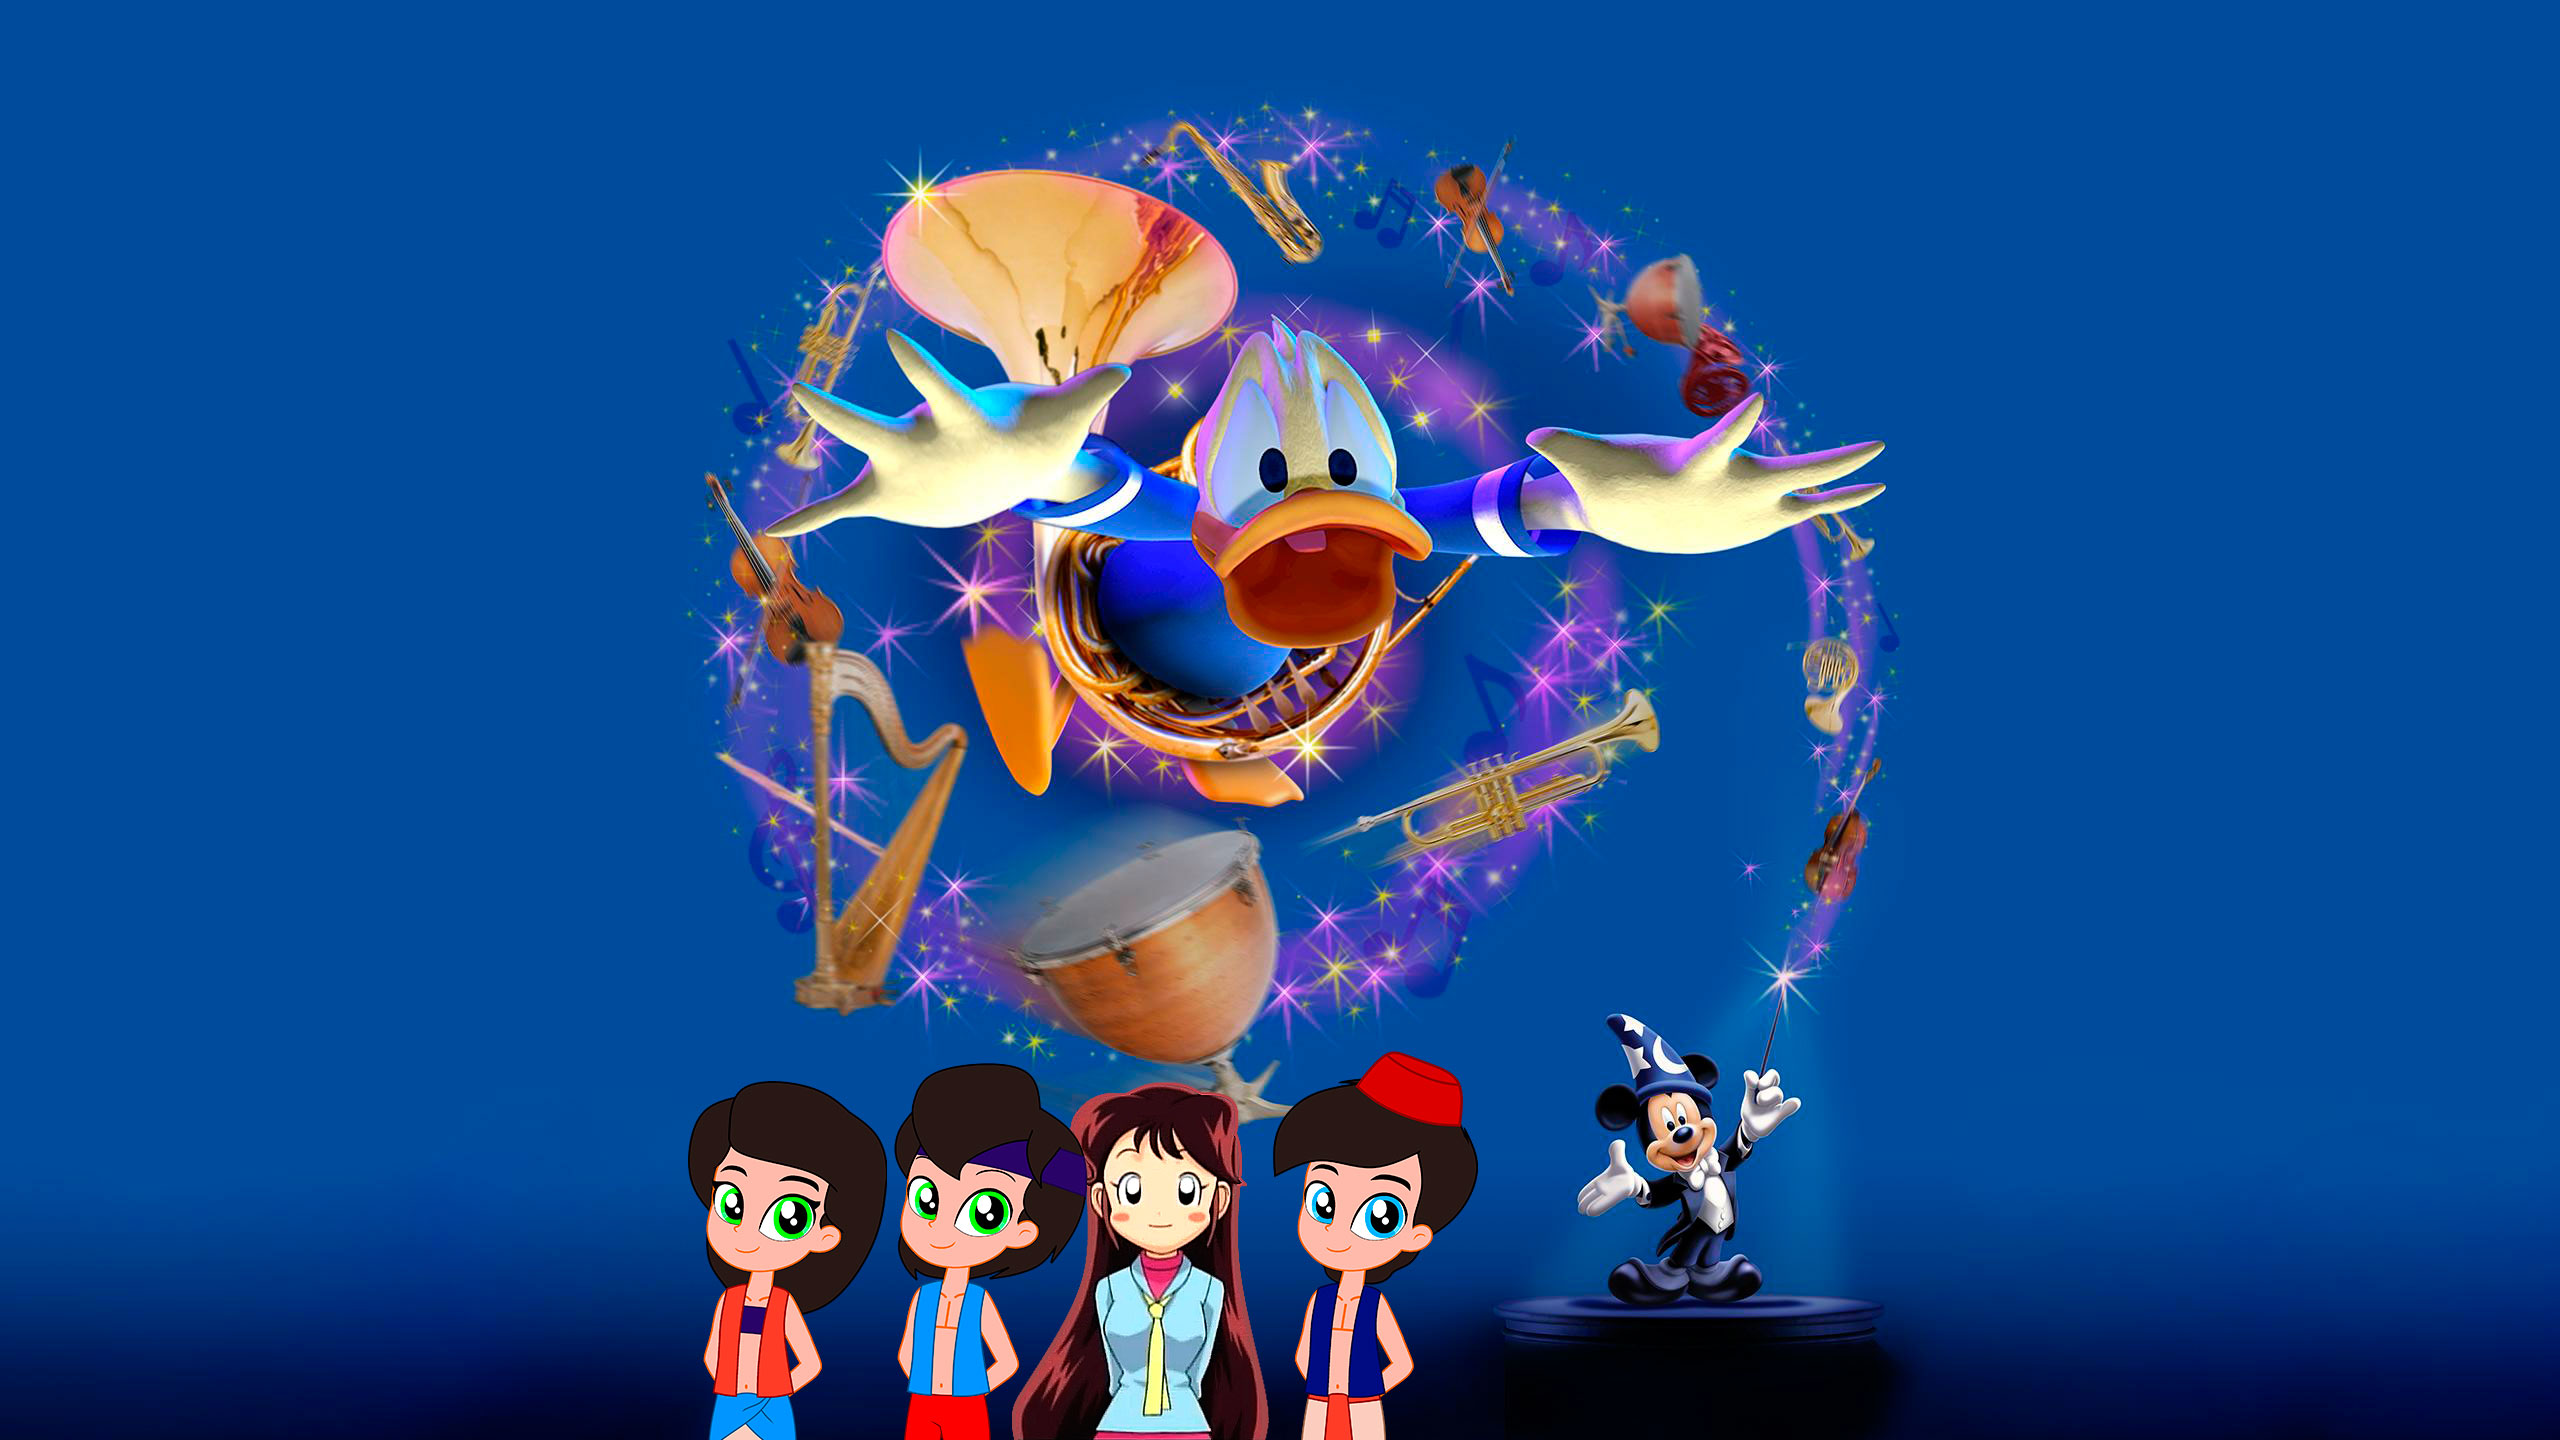
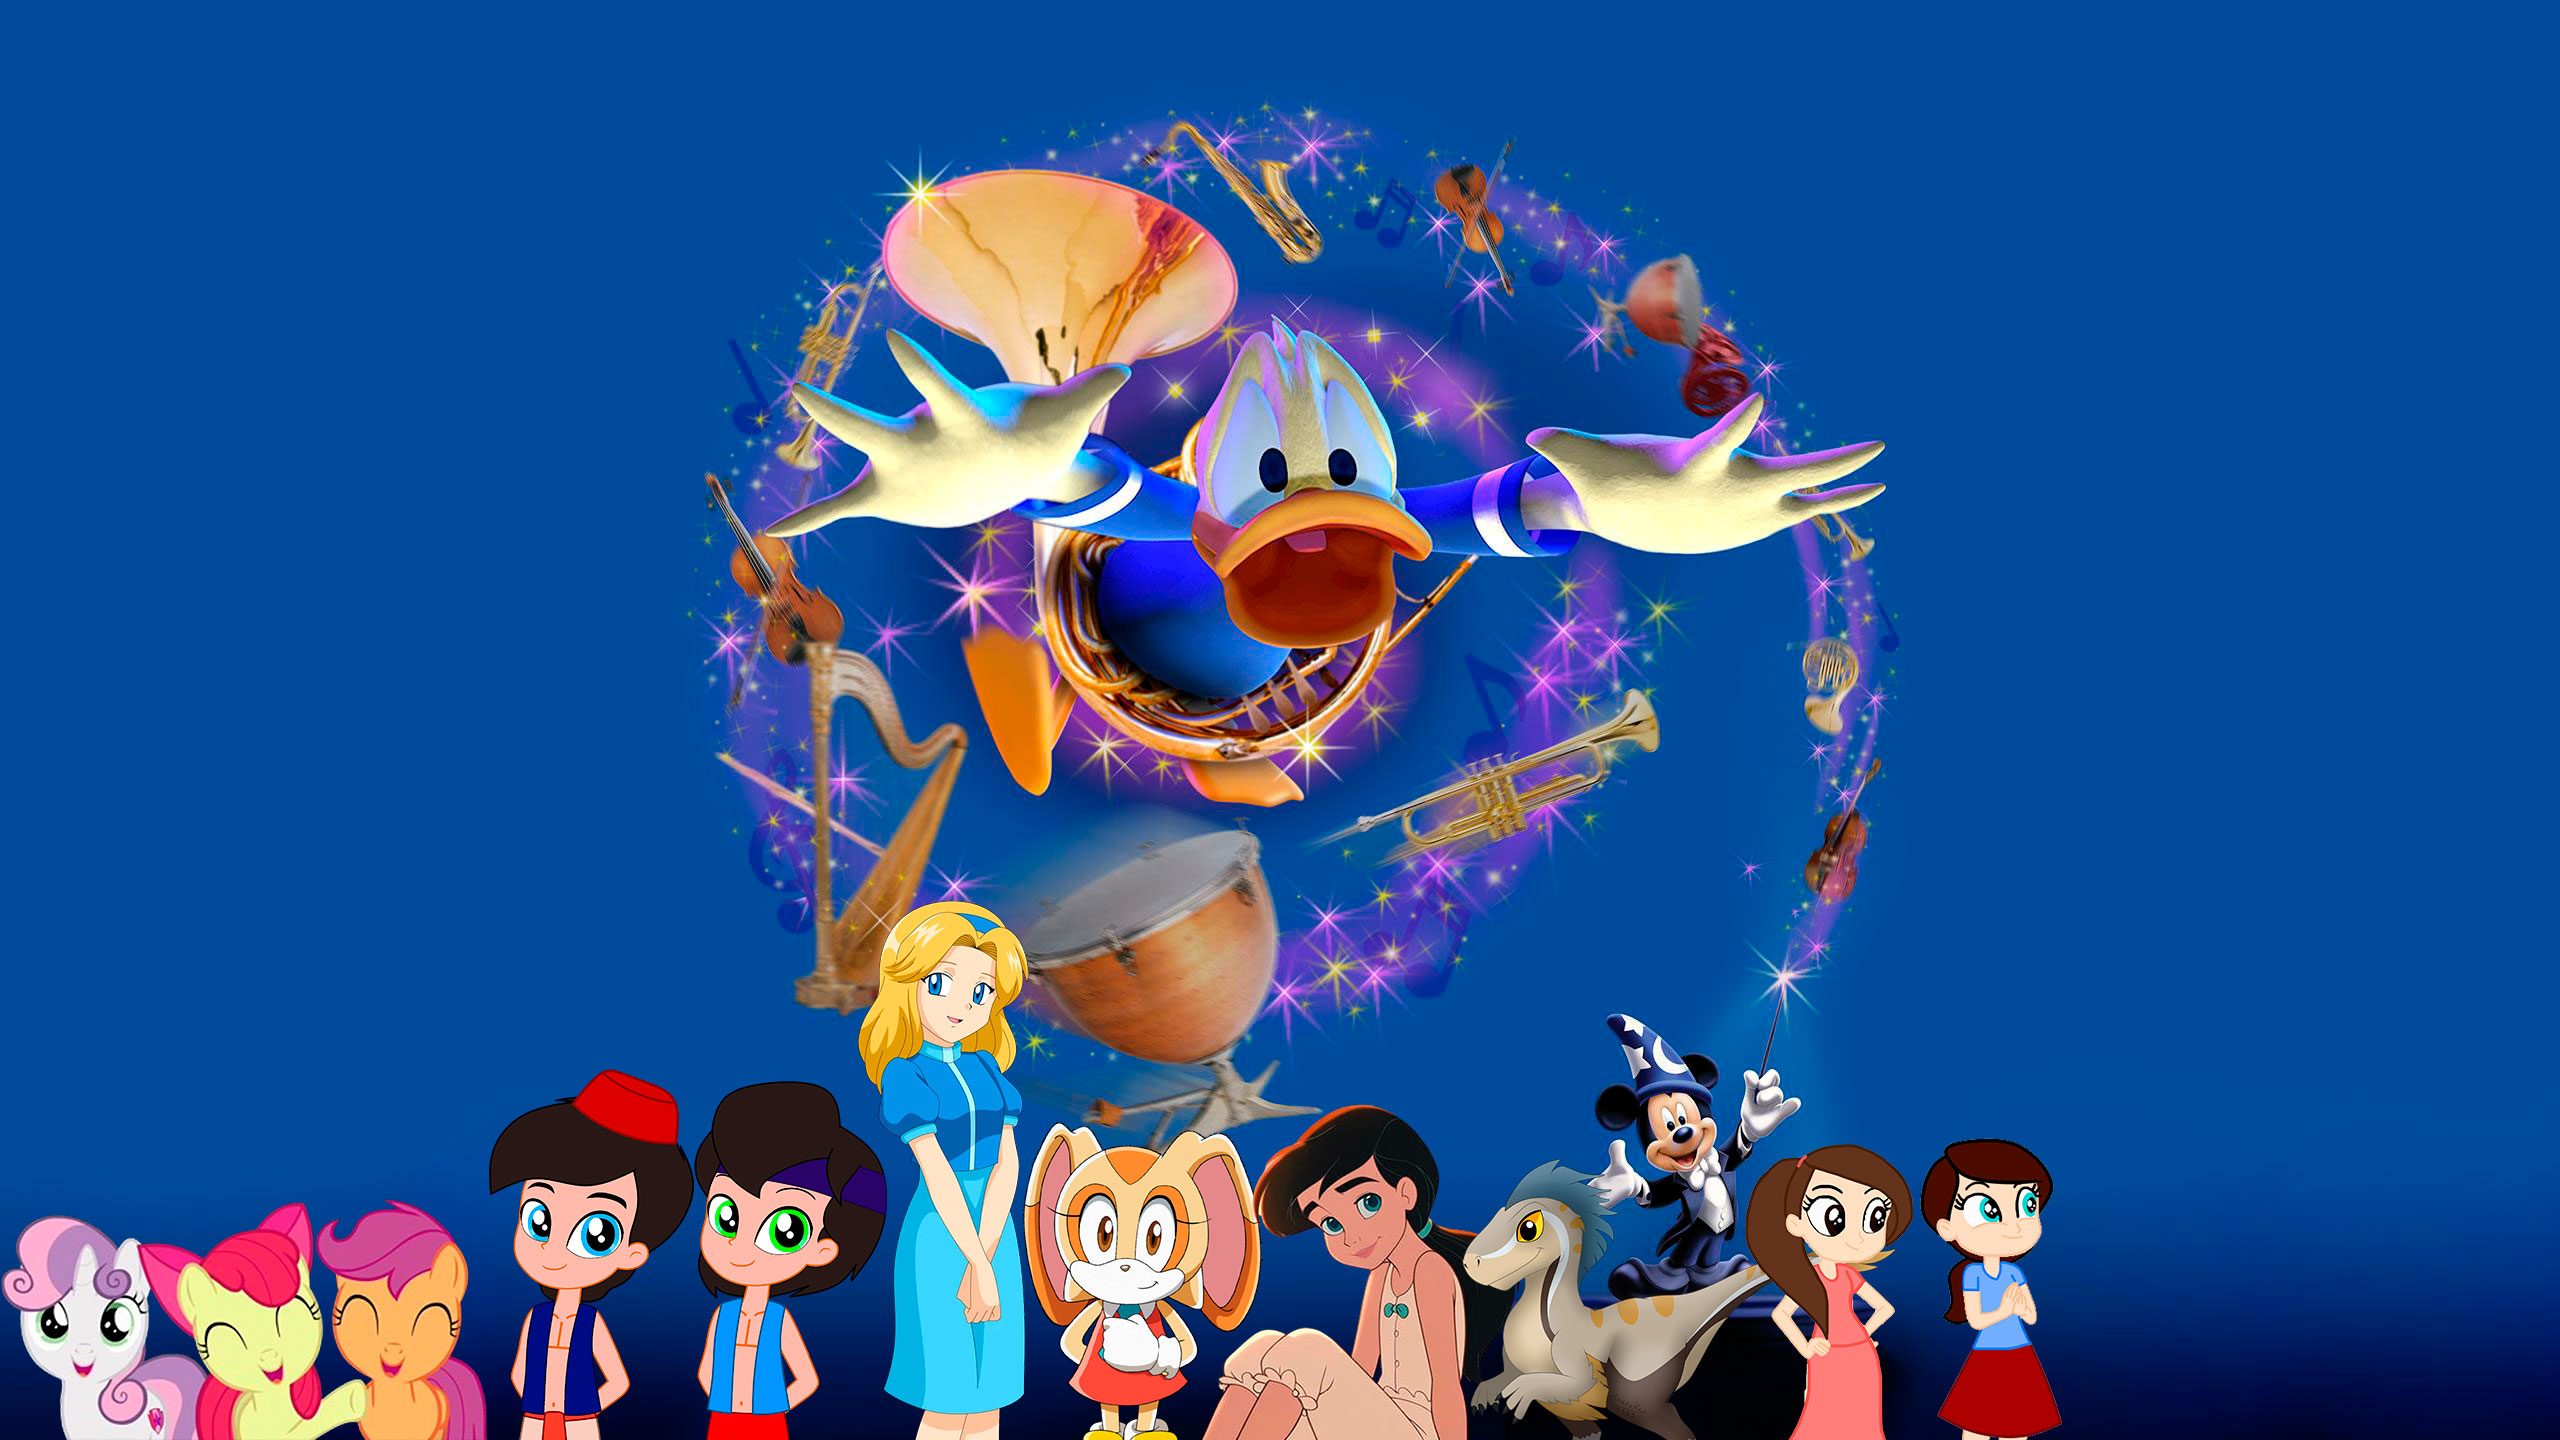
Add Mickey's Phillarmagic card and image
Introduced a new card for 'Young Ohanna Avengers in Mickey's Phillarmagic' in the HTML and added the corresponding image file.

Changed region(s): [[0.0, 0.625, 0.8125, 1.0]]

diff --git a/Once Upon a Toontopia.html b/Once Upon a Toontopia.html
@@ -34,6 +34,10 @@
           <img src="img/World-of-Color.jpg" alt="World-of-Color" />
           <h2>Trio Luna in World of Color</h2>
         </article>
+         <article class="card">
+          <img src="img/Mickey's-Phillarmagic.jpg" alt="Mickey's-Phillarmagic" />
+          <h2>Young Ohanna Avengers in Mickey's Phillarmagic</h2>
+        </article>
         <article class="card">
           <img src="img/Sorcerer-of-Magic-Kingdom.jpg" alt="Sorcerer of Magic Kingdom" />
           <h2>Sorcerer of Magic Kingdom</h2>
